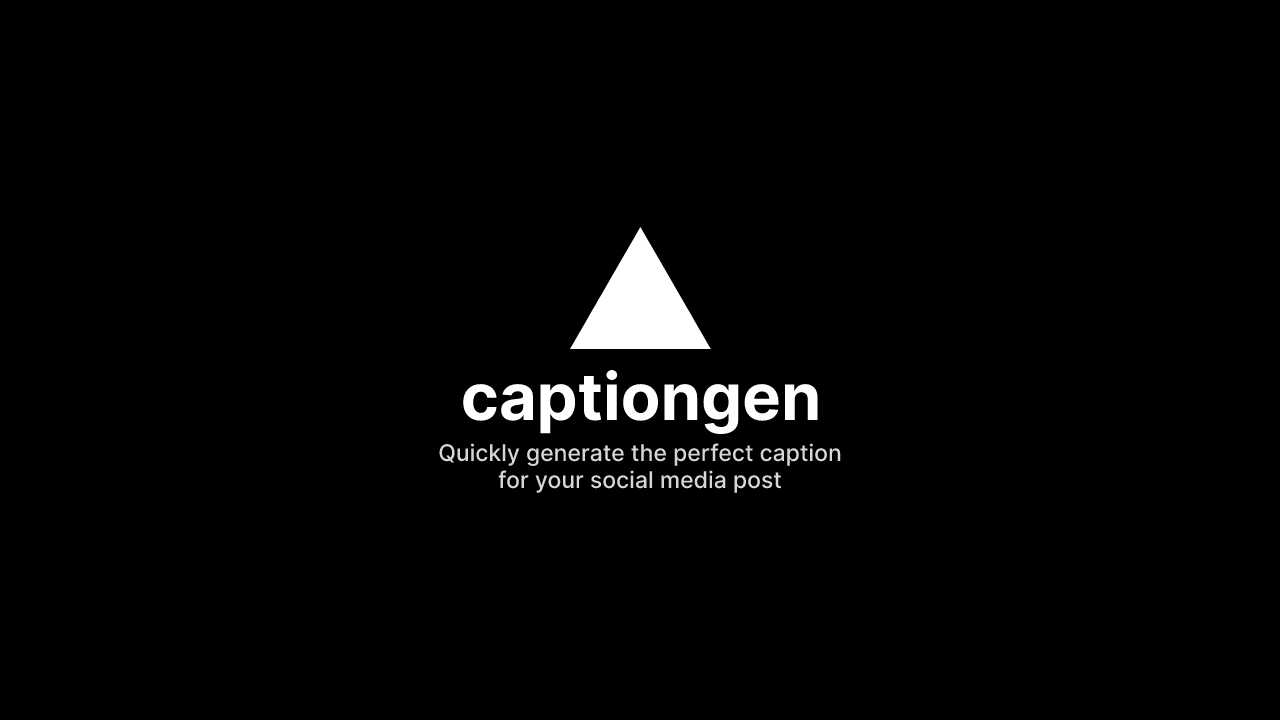
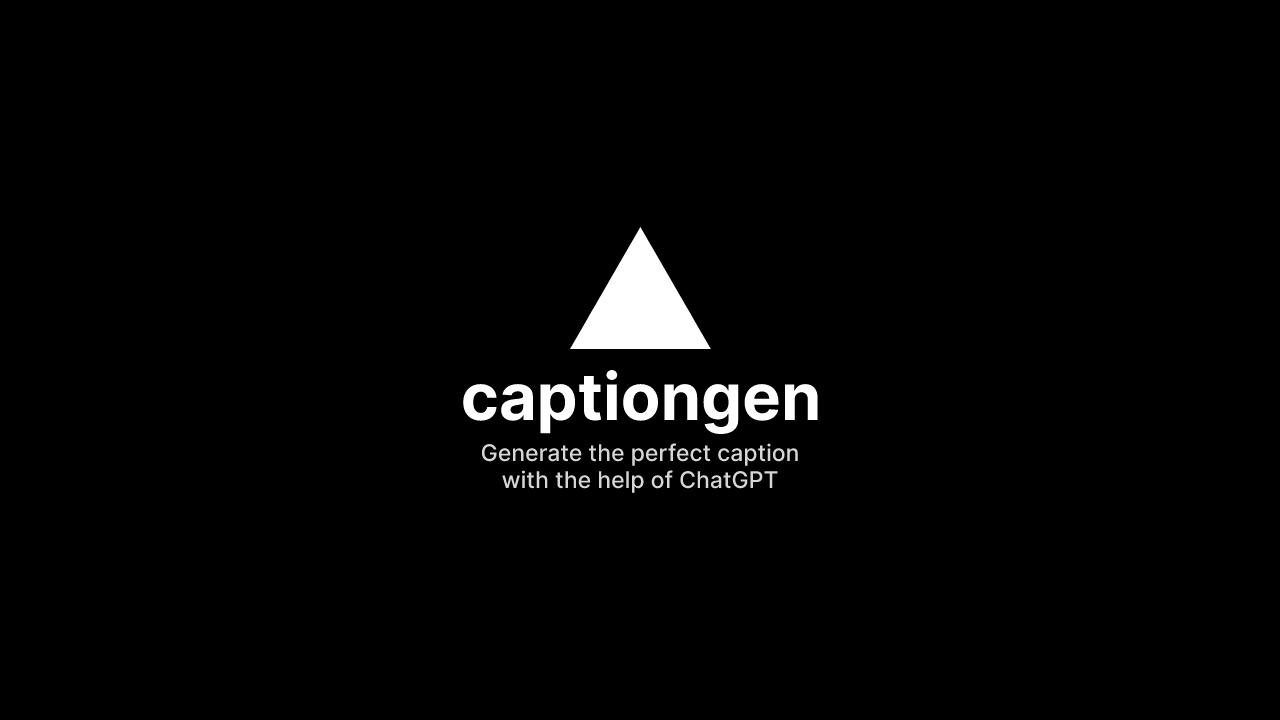
Change catchphrase

Changed region(s): [[0.3438, 0.6111, 0.6562, 0.7028]]

diff --git a/src/pages/_document.js b/src/pages/_document.js
@@ -8,14 +8,14 @@ export default function Document() {
         <meta name="title" content="captiongen" />
         <meta
           name="description"
-          content="Quickly generate the perfect caption for your social media post."
+          content="Generate the perfect caption with the help of ChatGPT."
         />
         <meta property="og:type" content="website" />
         <meta property="og:url" content="https://captiongen.szhao.dev/" />
         <meta property="og:title" content="captiongen" />
         <meta
           property="og:description"
-          content="Quickly generate the perfect caption for your social media post."
+          content="Generate the perfect caption with the help of ChatGPT."
         />
         <meta
           property="og:image"
@@ -26,7 +26,7 @@ export default function Document() {
         <meta property="twitter:title" content="captiongen" />
         <meta
           property="twitter:description"
-          content="Quickly generate the perfect caption for your social media post."
+          content="Generate the perfect caption with the help of ChatGPT."
         />
         <meta
           property="twitter:image"

diff --git a/src/pages/index.js b/src/pages/index.js
@@ -95,7 +95,7 @@ export default function Home() {
         <main className="w-full h-full p-4 sm:p-6 lg:py-12 xl:py-24 flex flex-col gap-8 lg:gap-12 items-center">
           <Github />
           <h1 className="text-center font-bold text-3xl xl:text-4xl h-full">
-            Generate your next{" "}
+            Generate the perfect{" "}
             <Typewriter
               cursor={{ char: " " }}
               timeBeforeDelete={2000}
